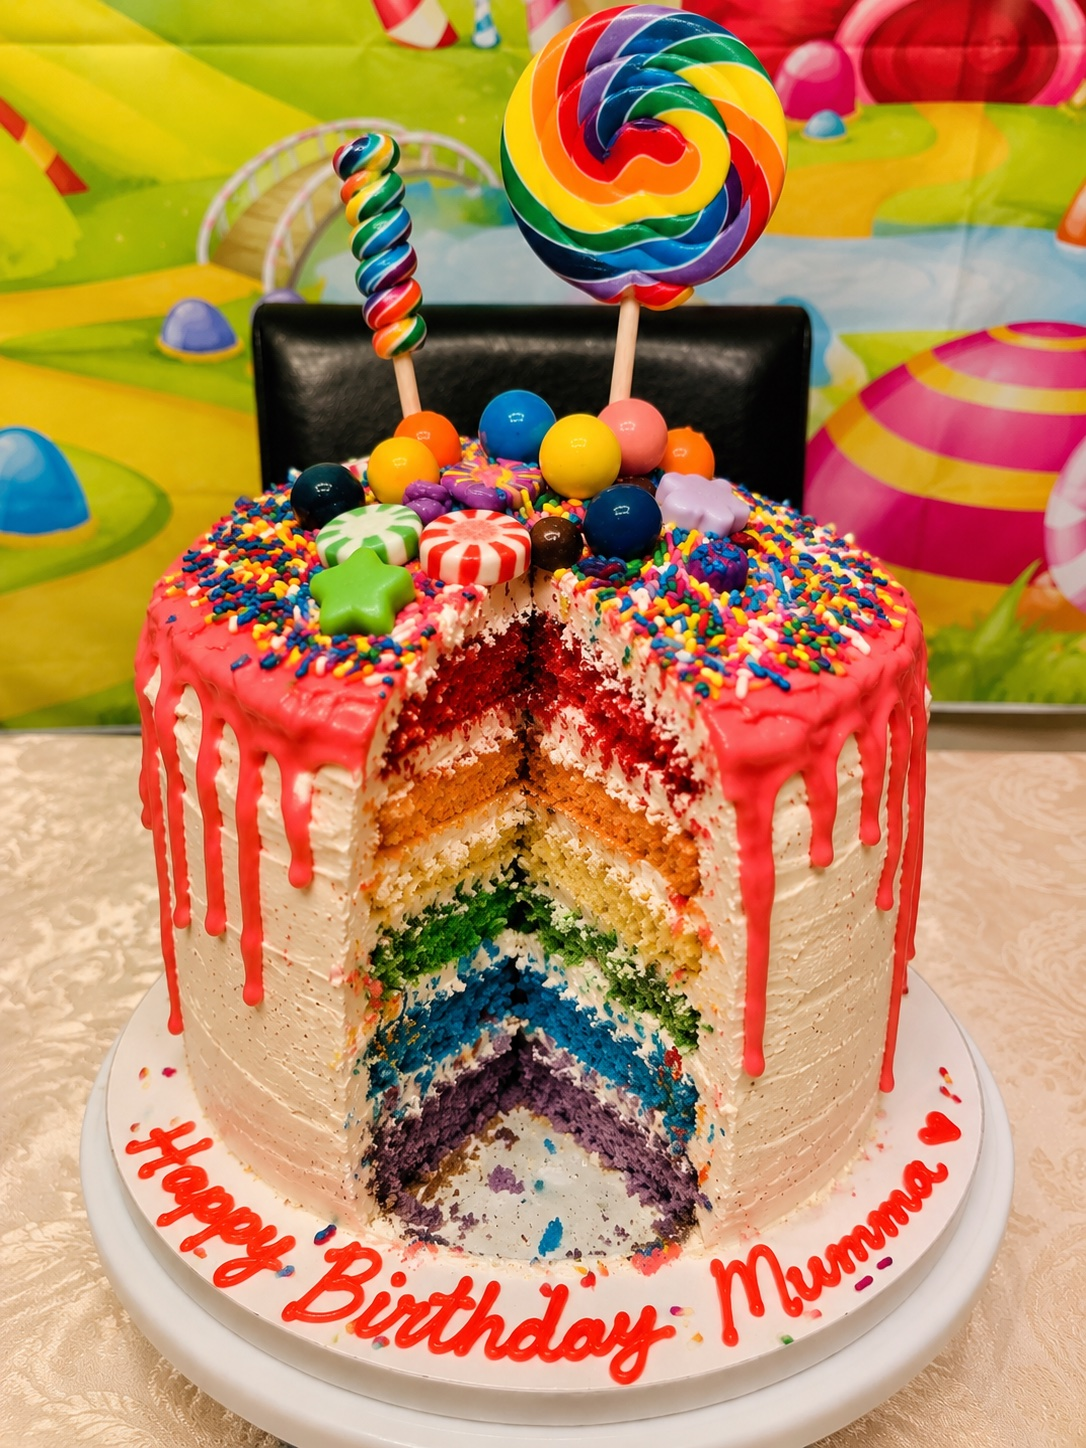
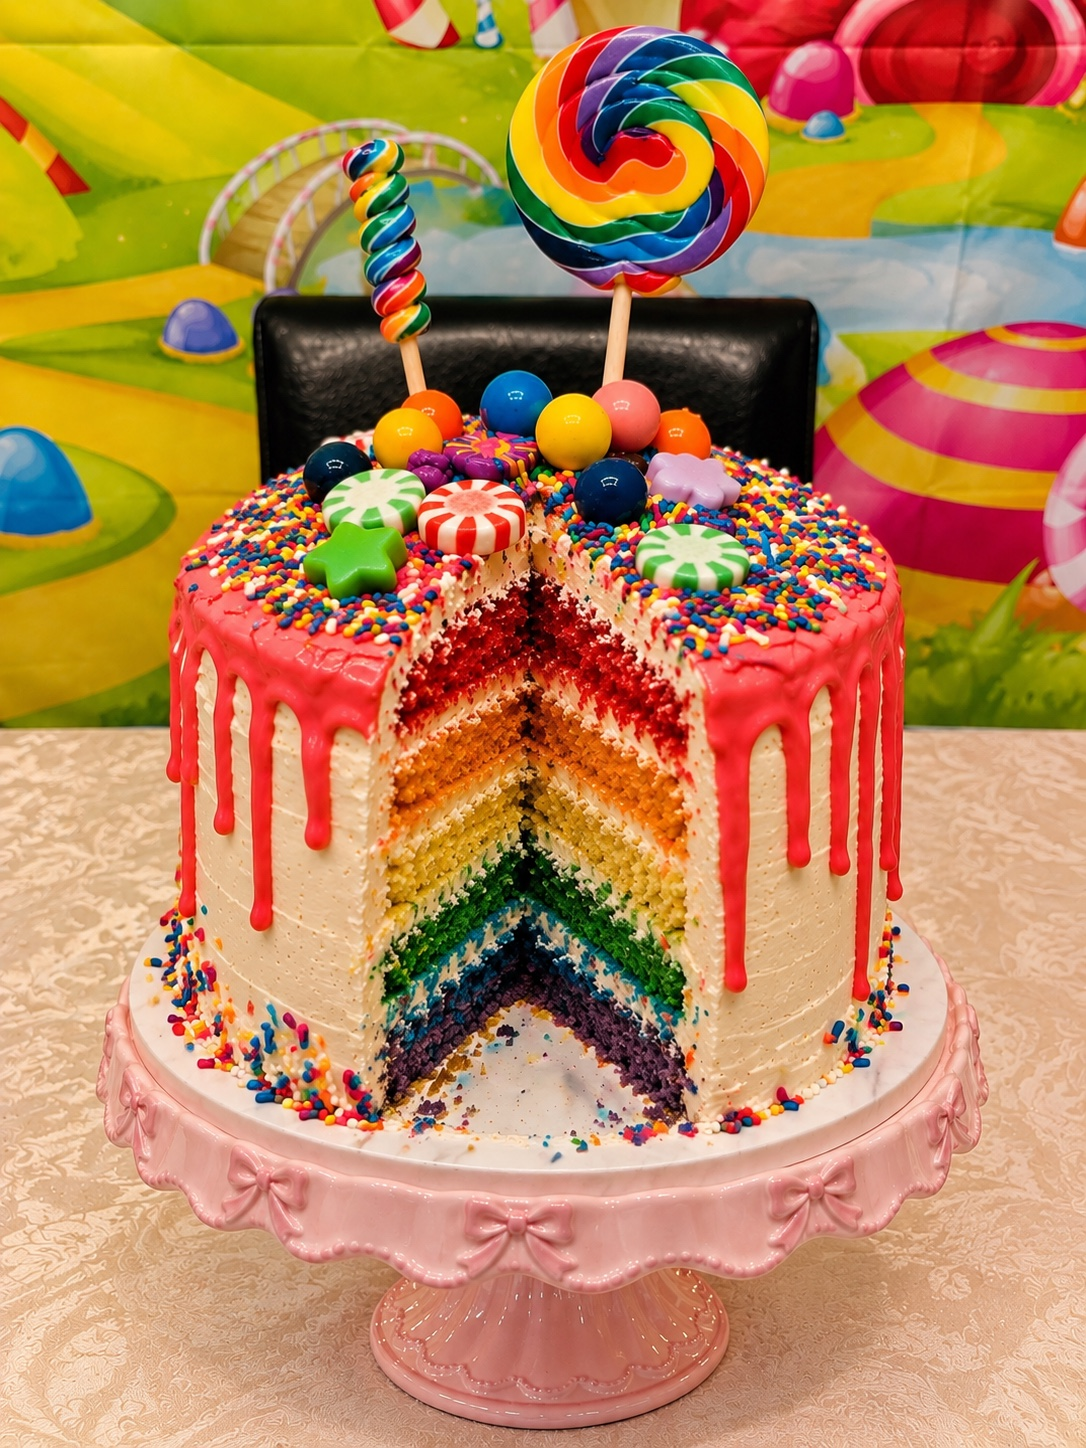
Rehang Digital Art as one wall sized from each piece's proportions
Two by two | the two flag pieces side by side | two over one wide piece.
Each piece carries its width/height ratio so rows line up without cropping.
Also swaps in a new rainbow cake photo.

diff --git a/wwwroot/css/shelves.css b/wwwroot/css/shelves.css
@@ -287,167 +287,123 @@
     box-shadow: 0 14px 28px rgba(42, 24, 16, 0.22);
 }
 
-/* Make > Digital Art: a salon-style gallery hung in four bays, left to right:
-   two pieces stacked | a warm wall of four | the braid, hung big | a narrow wall of two.
-   Every piece gets the same walnut frame, white mat and museum label.
-   On wide screens every bay is as tall as the wall of four; the prints and the braid crop to fit. */
-.gallery-salon {
-    display: grid;
-    grid-template-columns: minmax(0, 1fr) minmax(0, 2fr) minmax(0, 1.35fr) minmax(0, 1.05fr);
-    align-items: stretch;
-    gap: 14px;
+/* Make > Digital Art: one gallery wall, hung left to right:
+   two by two | the two tall flag pieces side by side | two over one wide piece.
+   Every piece has the same walnut frame, white mat and title, and each row is sized from the art's
+   own proportions (--r = width / height), so the rows line up and nothing is ever cropped. */
+.art-shelf {
+    --frame: 8px;          /* walnut */
+    --mat: 12px;           /* white mat */
+    --edge: calc(2 * (var(--frame) + var(--mat)));
+    --gap: 22px;
 }
 
-.salon-bay {
+/* on wide screens the wall reaches a little past the text column, so the art gets more room;
+   column shares come from the art's proportions (the flag pair is about twice a block) */
+.gallery-salon {
+    display: grid;
+    grid-template-columns: minmax(0, 1fr) minmax(0, 1.9fr) minmax(0, 1fr);
+    align-items: stretch;
+    gap: 30px;
+    margin-inline: calc(-1 * clamp(0px, (92vw - 1080px) / 2, 110px));
+    padding: 44px 34px 56px;
+    border-radius: 14px;
+    background:
+        radial-gradient(ellipse 70% 55% at 50% 0%, rgba(255, 250, 244, 0.75) 0%, rgba(255, 250, 244, 0) 100%),
+        linear-gradient(180deg, #F1E4DE 0%, #E9D7D0 100%);
+    box-shadow: inset 0 -12px 0 #DCC6BE;   /* the baseboard */
+}
+
+.salon-block {
+    display: flex;
+    flex-direction: column;
+    justify-content: space-between;
+    gap: 30px;
+}
+
+.salon-row {
+    display: flex;
+    align-items: flex-start;
+    gap: var(--gap);
     margin: 0;
     padding: 0;
     list-style: none;
 }
 
+/* each piece's share of its row grows with its width / height, on top of the frame and mat,
+   so every opening in the row comes out the same height */
 .gallery-piece {
-    position: relative;
-    display: flex;
-    justify-content: center;
+    flex: var(--r) 1 var(--edge);
+    min-width: 0;
 }
 
 .gallery-piece .art-open {
-    position: relative;
     display: flex;
     flex-direction: column;
-    align-items: center;
     width: 100%;
     text-align: center;
 }
 
-/* ---- the walls (bays 2 and 4): framed pieces on a warm wall under soft spotlights ---- */
-.salon-wall {
-    display: grid;
-    align-content: space-evenly;
-    gap: 30px 24px;
-    padding: 40px 26px 44px;
-    border-radius: 14px;
-    background:
-        linear-gradient(180deg, rgba(255, 255, 255, 0.35) 0, rgba(255, 255, 255, 0) 120px),
-        linear-gradient(160deg, #EFE2DC 0%, #E8D6CF 100%);
-    box-shadow: inset 0 -12px 0 #DCC6BE;   /* the baseboard */
-}
-
-.salon-wall-grid {
-    grid-template-columns: repeat(2, minmax(0, 1fr));
-}
-
-.salon-wall-stack {
-    grid-template-columns: minmax(0, 1fr);
-}
-
-/* a spotlight washing down from above each framed piece */
-.gallery-framed::before {
-    content: "";
-    position: absolute;
-    left: 50%;
-    top: -34px;
-    width: 120%;
-    height: 70%;
-    transform: translateX(-50%);
-    background: radial-gradient(ellipse at 50% 0%, rgba(255, 250, 244, 0.85) 0%, rgba(255, 250, 244, 0) 70%);
-    pointer-events: none;
-}
-
-/* walnut frame, white mat on every piece. The small pieces share a square opening so rows line up */
+/* walnut frame, white mat on every piece */
 .gallery-piece .gallery-frame {
     display: block;
-    width: 100%;
-    padding: 12px;
-    border: 9px solid #3B2A22;
+    padding: var(--mat);
+    border: var(--frame) solid #3B2A22;
     background: #FFFDFB;
     box-shadow:
         inset 0 0 0 1px rgba(42, 24, 16, 0.08),
-        0 2px 3px rgba(42, 24, 16, 0.25),
-        0 18px 34px rgba(42, 24, 16, 0.22);
+        0 2px 3px rgba(42, 24, 16, 0.22),
+        0 16px 30px rgba(42, 24, 16, 0.2);
 }
 
-.gallery-framed .gallery-frame img {
+.gallery-piece .gallery-frame img {
     display: block;
     width: 100%;
     height: auto;
-    aspect-ratio: 1 / 1;
+    aspect-ratio: var(--r);
     object-fit: contain;
 }
 
-/* the little museum label, the same under every piece */
+/* the two tall pieces stand as high as the blocks beside them */
+.salon-center {
+    align-items: stretch;
+}
+
+.gallery-tall .art-open {
+    height: 100%;
+}
+
+.gallery-tall .gallery-frame {
+    position: relative;
+    flex: 1;
+    min-height: 160px;
+}
+
+.gallery-tall .gallery-frame img {
+    position: absolute;
+    inset: var(--mat);
+    width: calc(100% - 2 * var(--mat));
+    height: calc(100% - 2 * var(--mat));
+    aspect-ratio: auto;
+}
+
+/* the title, the same under every piece */
 .gallery-piece .gallery-label {
     display: block;
-    margin-top: 16px;
-    padding: 7px 12px 8px;
-    border-radius: 2px;
-    background: #FFFDFB;
-    box-shadow: 0 1px 3px rgba(42, 24, 16, 0.15);
+    margin-top: 12px;
+    line-height: 1.3;
 }
 
 .gallery-title {
-    display: block;
     font-family: Georgia, serif;
     font-style: italic;
     font-size: 0.88em;
-    color: #2A1810;
+    color: #5A3E36;
+    transition: color 0.3s ease;
 }
 
-/* ---- bay 1: two pieces stacked, the featured one taller ---- */
-.salon-prints {
-    display: flex;
-    flex-direction: column;
-    gap: 14px;
-}
-
-.gallery-print {
-    flex: 1;
-    min-height: 0;
-}
-
-.gallery-print.gallery-feature {
-    flex: 2.1;
-}
-
-.gallery-print .art-open {
-    height: 100%;
-}
-
-/* the tall pieces fill whatever height their bay has (inside the same frame and mat),
-   so they never make the wall taller */
-.gallery-print .gallery-frame,
-.gallery-hero .gallery-frame {
-    position: relative;
-    flex: 1;
-    align-self: stretch;
-    width: auto;
-    min-height: 110px;
-}
-
-.gallery-print .gallery-frame img,
-.gallery-hero .gallery-frame img {
-    position: absolute;
-    inset: 12px;
-    width: calc(100% - 24px);
-    height: calc(100% - 24px);
-    object-fit: cover;
-}
-
-/* ---- bay 3: the braid, hung big ---- */
-.gallery-hero {
-    height: 100%;
-}
-
-.gallery-hero .art-open {
-    height: 100%;
-}
-
-.gallery-hero .gallery-frame img {
-    object-position: 50% 30%;
-}
-
-/* ---- hover: every frame lifts ---- */
-.gallery-frame,
-.gallery-frame img {
+/* ---- hover: the frame lifts ---- */
+.gallery-frame {
     transition: transform 0.3s ease, box-shadow 0.3s ease;
 }
 
@@ -456,105 +412,79 @@
     box-shadow:
         inset 0 0 0 1px rgba(42, 24, 16, 0.08),
         0 4px 6px rgba(42, 24, 16, 0.2),
-        0 28px 46px rgba(42, 24, 16, 0.26);
+        0 26px 44px rgba(42, 24, 16, 0.26);
 }
 
-/* wide screens: keep labels to one line so both rows of frames line up */
-@media (min-width: 1101px) {
-    .gallery-piece .gallery-label {
-        white-space: nowrap;
-    }
+.gallery-piece .art-open:hover .gallery-title {
+    color: #8A4D57;
 }
 
-/* ---- medium screens: the wall of four across the top, prints + braid side by side, wall of two below ---- */
-@media (max-width: 1100px) {
+/* ---- medium screens: the flag pair on top, the two blocks side by side below ---- */
+@media (max-width: 1300px) {
     .gallery-salon {
         grid-template-columns: repeat(2, minmax(0, 1fr));
+        margin-inline: 0;
+        padding: 40px 30px 50px;
     }
 
-    .salon-wall-grid {
+    .salon-center {
         grid-column: 1 / -1;
         order: -1;
-        grid-template-columns: repeat(4, minmax(0, 1fr));
+        width: min(100%, 560px);
+        margin-inline: auto;
+        align-items: flex-start;
     }
 
-    .salon-wall-stack {
-        grid-column: 1 / -1;
-        grid-template-columns: repeat(2, minmax(0, 1fr));
-        padding-inline: 18%;
-    }
-
-    /* the prints now set their own height from the art */
-    .gallery-print,
-    .gallery-print.gallery-feature {
+    /* the tall pieces now set their own height from the art */
+    .gallery-tall .gallery-frame {
         flex: none;
+        min-height: 0;
     }
 
-    .gallery-print .gallery-frame {
-        flex: none;
-        aspect-ratio: 3 / 4;
-    }
-
-    .gallery-print:not(.gallery-feature) .gallery-frame {
-        aspect-ratio: 16 / 9;
+    .gallery-tall .gallery-frame img {
+        position: static;
+        width: 100%;
+        height: auto;
+        aspect-ratio: var(--r);
     }
 }
 
-@media (max-width: 760px) {
-    .salon-wall-grid {
-        grid-template-columns: repeat(2, minmax(0, 1fr));
-    }
-
-    .salon-wall-stack {
-        padding-inline: 26px;
-    }
-}
-
-/* ---- phones: one bay per row ---- */
-@media (max-width: 520px) {
+/* ---- small screens: one group per row ---- */
+@media (max-width: 680px) {
     .gallery-salon {
         grid-template-columns: minmax(0, 1fr);
+        gap: 30px;
+    }
+}
+
+/* ---- phones: slimmer frames ---- */
+@media (max-width: 520px) {
+    .art-shelf {
+        --frame: 5px;
+        --mat: 7px;
+        --gap: 12px;
     }
 
-    .salon-hero .gallery-hero .gallery-frame {
-        flex: none;
-        aspect-ratio: 3 / 4;
+    .gallery-salon {
+        padding: 26px 14px 34px;
     }
 
-    .salon-wall {
-        gap: 24px 14px;
-        padding: 28px 14px 32px;
-    }
-
-    .salon-wall-stack {
-        padding-inline: 14px;
-    }
-
-    .gallery-piece .gallery-frame {
-        padding: 7px;
-        border-width: 5px;
-    }
-
-    .gallery-print .gallery-frame img,
-    .gallery-hero .gallery-frame img {
-        inset: 7px;
-        width: calc(100% - 14px);
-        height: calc(100% - 14px);
+    .salon-block {
+        gap: 22px;
     }
 
     .gallery-piece .gallery-label {
-        margin-top: 12px;
-        padding: 6px 8px 7px;
+        margin-top: 9px;
     }
 
     .gallery-title {
-        font-size: 0.8em;
+        font-size: 0.78em;
     }
 }
 
 @media (prefers-reduced-motion: reduce) {
     .gallery-frame,
-    .gallery-frame img {
+    .gallery-title {
         transition: none;
     }
 }
